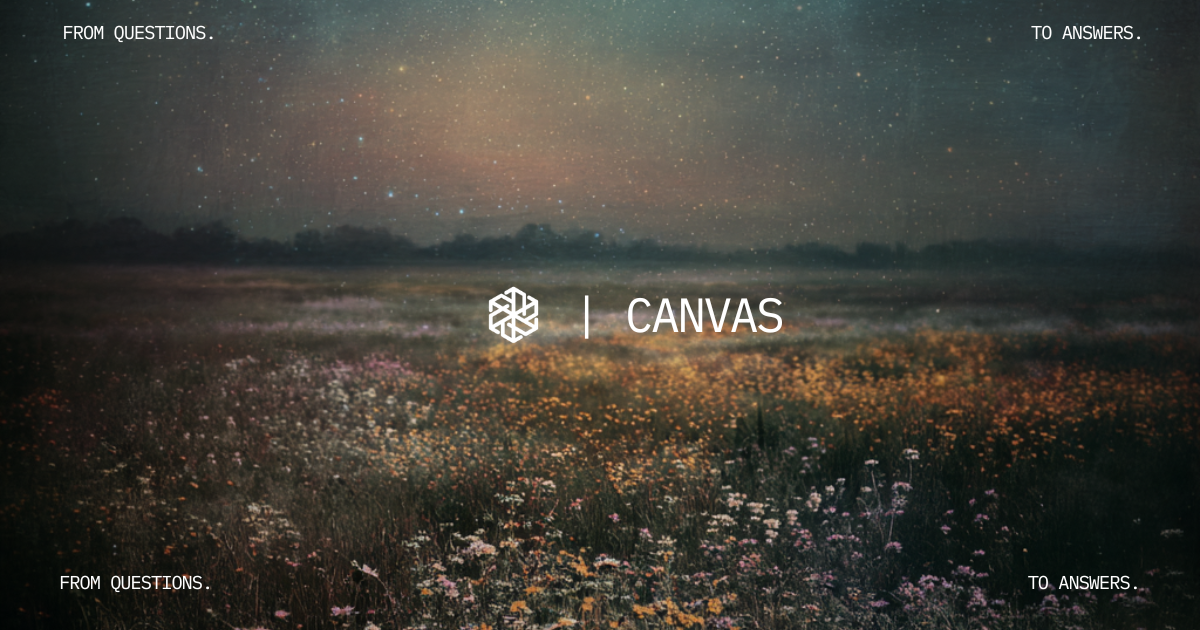
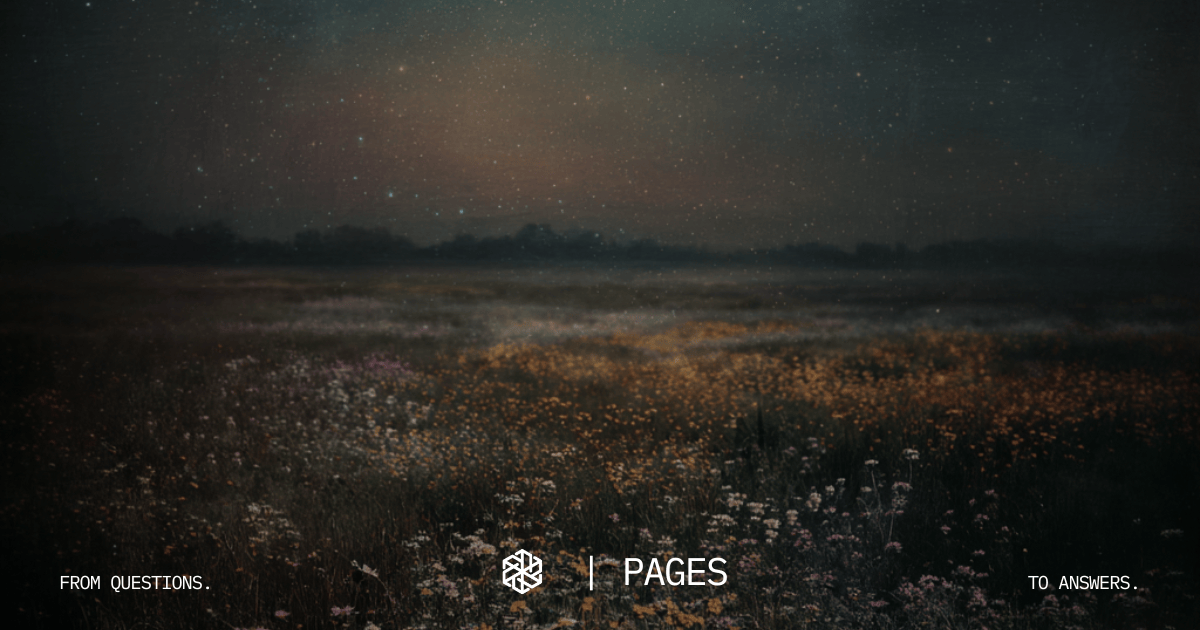
update OG

diff --git a/app/pages/[id]/page.tsx b/app/pages/[id]/page.tsx
@@ -1,0 +1,104 @@
+import { redis } from '@/lib/redis'
+import { FinalAnswer } from '@/components/final-answer'
+import { notFound } from 'next/navigation'
+import { Metadata } from 'next'
+import Link from 'next/link'
+
+interface PagesPageProps {
+    params: Promise<{ id: string }>
+}
+
+const SITE_URL = 'https://omniknows.xyz'
+const SITE_NAME = 'Omni Knows'
+const COVER_URL = `${SITE_URL}/omniknows_canvas.png`
+
+export async function generateMetadata({ params }: PagesPageProps): Promise<Metadata> {
+    const { id } = await params
+    const rawData = await redis.get(`publish:${id}`)
+
+    if (!rawData) {
+        return { title: { absolute: `Report Not Found | ${SITE_NAME}` } }
+    }
+
+    const data = typeof rawData === 'string' ? JSON.parse(rawData) : rawData
+    const reportTitle = data.title || 'AI Research Report'
+    const description = data.answer
+        ? String(data.answer).replace(/<[^>]+>/g, '').slice(0, 160).trimEnd() + '…'
+        : `An AI-generated research report created with ${SITE_NAME}.`
+    const pageUrl = `${SITE_URL}/pages/${id}`
+
+    return {
+        title: { absolute: `${reportTitle} | ${SITE_NAME}` },
+        description,
+        openGraph: {
+            type: 'article',
+            title: reportTitle + ' | Omni Knows',
+            description,
+            url: pageUrl,
+            siteName: SITE_NAME,
+            locale: 'en_US',
+        },
+        twitter: {
+            card: 'summary_large_image',
+            title: reportTitle + ' | Omni Knows',
+            description,
+            creator: '@omniknows',
+        },
+        robots: { index: true, follow: true },
+        alternates: { canonical: pageUrl },
+    }
+}
+
+export default async function PagesPage({ params }: PagesPageProps) {
+    const { id } = await params
+    const rawData = await redis.get(`publish:${id}`)
+
+    if (!rawData) notFound()
+
+    const data = typeof rawData === 'string' ? JSON.parse(rawData) : rawData
+
+    return (
+        <div className="min-h-screen bg-[var(--background)] flex flex-col py-8 px-4 sm:px-6">
+            {/* Report card */}
+            <div className="max-w-[1200px] w-full mx-auto flex-1">
+                <FinalAnswer
+                    answer={data.answer}
+                    sources={data.sources}
+                    assets={data.assets}
+                    title={data.title}
+                    isReadOnly={true}
+                />
+            </div>
+
+            {/* Footer */}
+            <footer className="max-w-[1200px] w-full mx-auto mt-8 pt-4 border-t border-border">
+                <div className="flex flex-col items-center gap-1 text-[10px] text-muted-foreground/60">
+                    <b>Answers generated by AI. Check important info.</b>
+                    <p>
+                        © {new Date().getFullYear()}{' '}
+                        <Link
+                            href="https://omniknows.xyz"
+                            target="_blank"
+                            rel="noopener noreferrer"
+                            className="underline underline-offset-2 decoration-muted-foreground/30 hover:decoration-foreground hover:text-foreground transition-colors font-[family-name:var(--font-plex)]"
+                        >
+                            Omni Knows
+                        </Link>
+                        {'. All rights reserved.'}
+                    </p>
+                    <p>
+                        Made with love by{' '}
+                        <Link
+                            href="https://haozhe.li"
+                            target="_blank"
+                            rel="noopener noreferrer"
+                            className="underline underline-offset-2 decoration-muted-foreground/30 hover:decoration-foreground hover:text-foreground transition-colors"
+                        >
+                            Haozhe Li
+                        </Link>
+                    </p>
+                </div>
+            </footer>
+        </div>
+    )
+}

diff --git a/app/pages/[id]/opengraph-image.tsx b/app/pages/[id]/opengraph-image.tsx
@@ -1,0 +1,90 @@
+import { ImageResponse } from 'next/og'
+import { redis } from '@/lib/redis'
+
+// Route segment config
+export const runtime = 'edge'
+
+// Image metadata
+export const alt = 'Omni Knows Pages'
+export const size = {
+    width: 1200,
+    height: 630,
+}
+
+export const contentType = 'image/png'
+
+// Image generation
+export default async function Image({ params }: { params: Promise<{ id: string }> }) {
+    const { id } = await params
+
+    let title = 'AI Research Report'
+    try {
+        const rawData = await redis.get(`publish:${id}`)
+        if (rawData) {
+            const data = typeof rawData === 'string' ? JSON.parse(rawData) : rawData
+            title = data.title || 'AI Research Report'
+        }
+    } catch (error) {
+        console.error('Failed to fetch title for OG image:', error)
+    }
+
+    // Get first 20 characters, only truncate if exceeds 20
+    const displayTitle = title.length > 20 ? title.slice(0, 20).trim() + '...' : title
+    const len = displayTitle.length
+
+    // Dynamically adjust font size based on length
+    let fontSize = 110
+    if (len <= 4) fontSize = 240
+    else if (len <= 7) fontSize = 200
+    else if (len <= 10) fontSize = 160
+    else if (len <= 14) fontSize = 130
+    else if (len <= 17) fontSize = 110
+    else fontSize = 100
+
+    // Use local URL in development, production URL in build
+    const siteUrl = process.env.NEXT_PUBLIC_SITE_URL || 'http://localhost:3000'
+    const backgroundImage = `${siteUrl}/omniknows_canvas.png?v=${Date.now()}`
+
+    return new ImageResponse(
+        (
+            <div
+                style={{
+                    height: '100%',
+                    width: '100%',
+                    display: 'flex',
+                    flexDirection: 'column',
+                    alignItems: 'flex-start',
+                    justifyContent: 'flex-start',
+                    padding: '80px',
+                    backgroundColor: '#000',
+                    backgroundImage: `url(${backgroundImage})`,
+                    backgroundSize: '1200px 630px',
+                    backgroundPosition: 'center',
+                    position: 'relative',
+                }}
+            >
+                {/* Main Title - Left Aligned Top-Left */}
+                <div
+                    style={{
+                        display: 'flex',
+                        fontSize: `${fontSize}px`,
+                        fontWeight: 900,
+                        color: '#ffffff',
+                        textAlign: 'left',
+                        lineHeight: 1.1,
+                        letterSpacing: '-0.05em',
+                        textTransform: 'none',
+                        fontFamily: 'sans-serif',
+                        textShadow: '0 10px 30px rgba(0,0,0,0.5)',
+                        maxWidth: '1000px',
+                    }}
+                >
+                    {displayTitle}
+                </div>
+            </div>
+        ),
+        {
+            ...size,
+        }
+    )
+}

diff --git a/components/canvas-view.tsx b/components/canvas-view.tsx
@@ -128,7 +128,7 @@ export function CanvasView({ query, threadId, onNewSearch, onToggleSidebar, isMo
 
       if (!res.ok) throw new Error('Failed to publish')
       const { id } = await res.json()
-      const url = `${window.location.origin}/publish/${id}`
+      const url = `${window.location.origin}/pages/${id}`
 
       if (typeof navigator !== 'undefined') {
         await navigator.clipboard.writeText(url)
